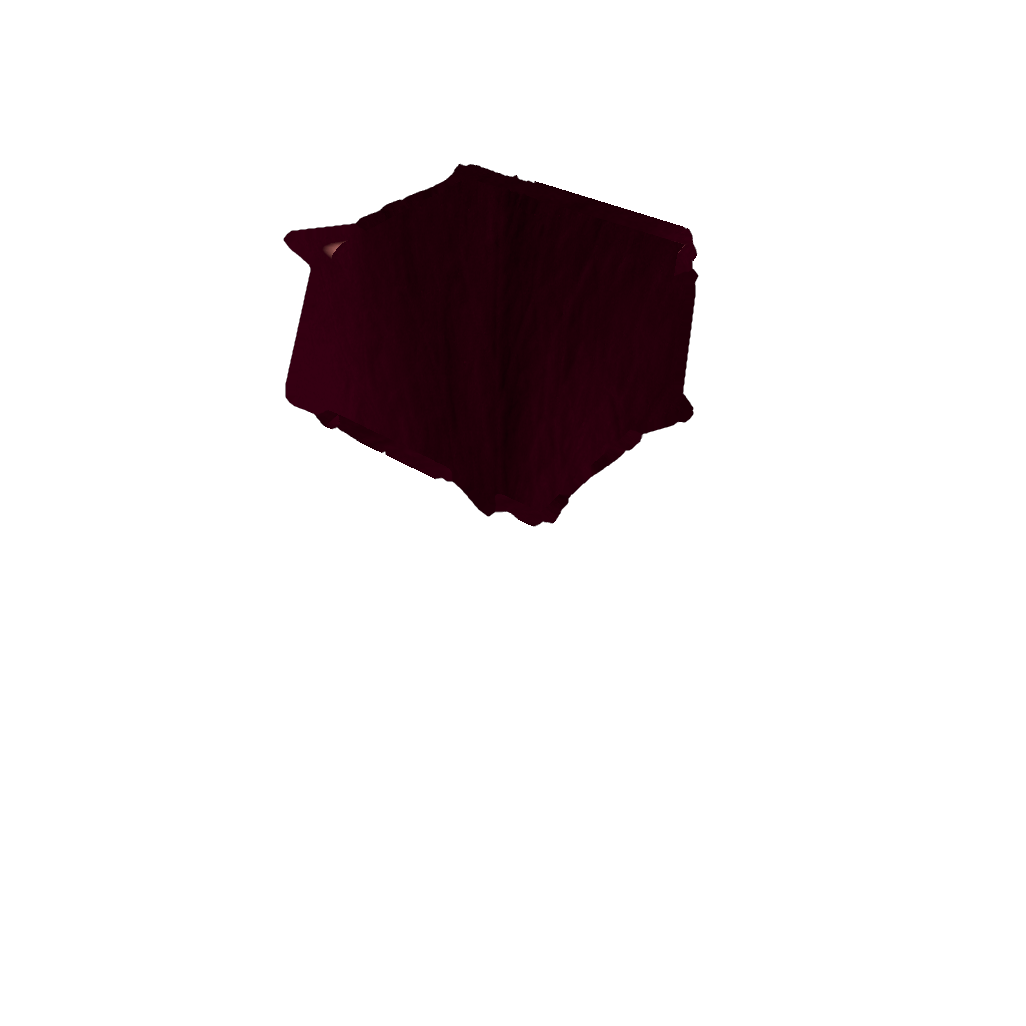
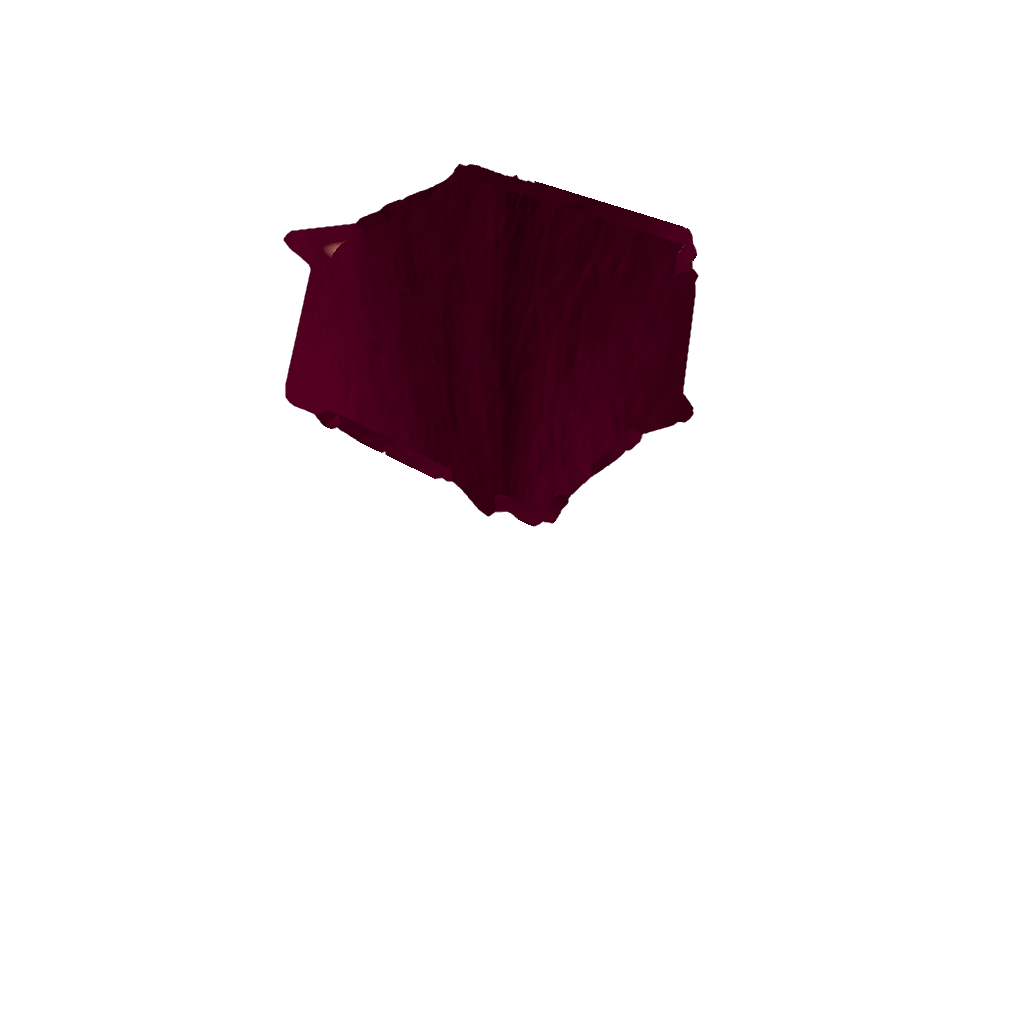
Use Irma's lighter pistil colour texture

Changed region(s): [[0.2807, 0.2183, 0.4366, 0.4678], [0.4678, 0.3431, 0.6238, 0.5302], [0.6238, 0.2183, 0.6862, 0.2807]]

diff --git a/main.js b/main.js
@@ -37,7 +37,7 @@ let bloom = 0.001; // target scale: grows to 1 once the model has loaded
 // Tulip with Irma's petal + pistil textures; the OBJ's two materials ("Petal._Yellow", "Pistill")
 // each get their own colour + normal map. Textures load alongside the mesh.
 // Bump MODEL_V whenever a file in renders/models changes, so browsers skip their cached copy.
-const MODEL_V = 5;
+const MODEL_V = 6;
 const texLoader = new THREE.TextureLoader();
 const loadTex = (url, srgb) => texLoader.loadAsync(url).then((t) => {
   if (srgb) t.colorSpace = THREE.SRGBColorSpace;

diff --git a/index.html b/index.html
@@ -148,6 +148,6 @@
 
 <footer class="mono">© <span id="year"></span> Irma Andersson · Botanical &amp; beauty 3D</footer>
 
-<script type="module" src="main.js?v=13"></script>
+<script type="module" src="main.js?v=14"></script>
 </body>
 </html>
